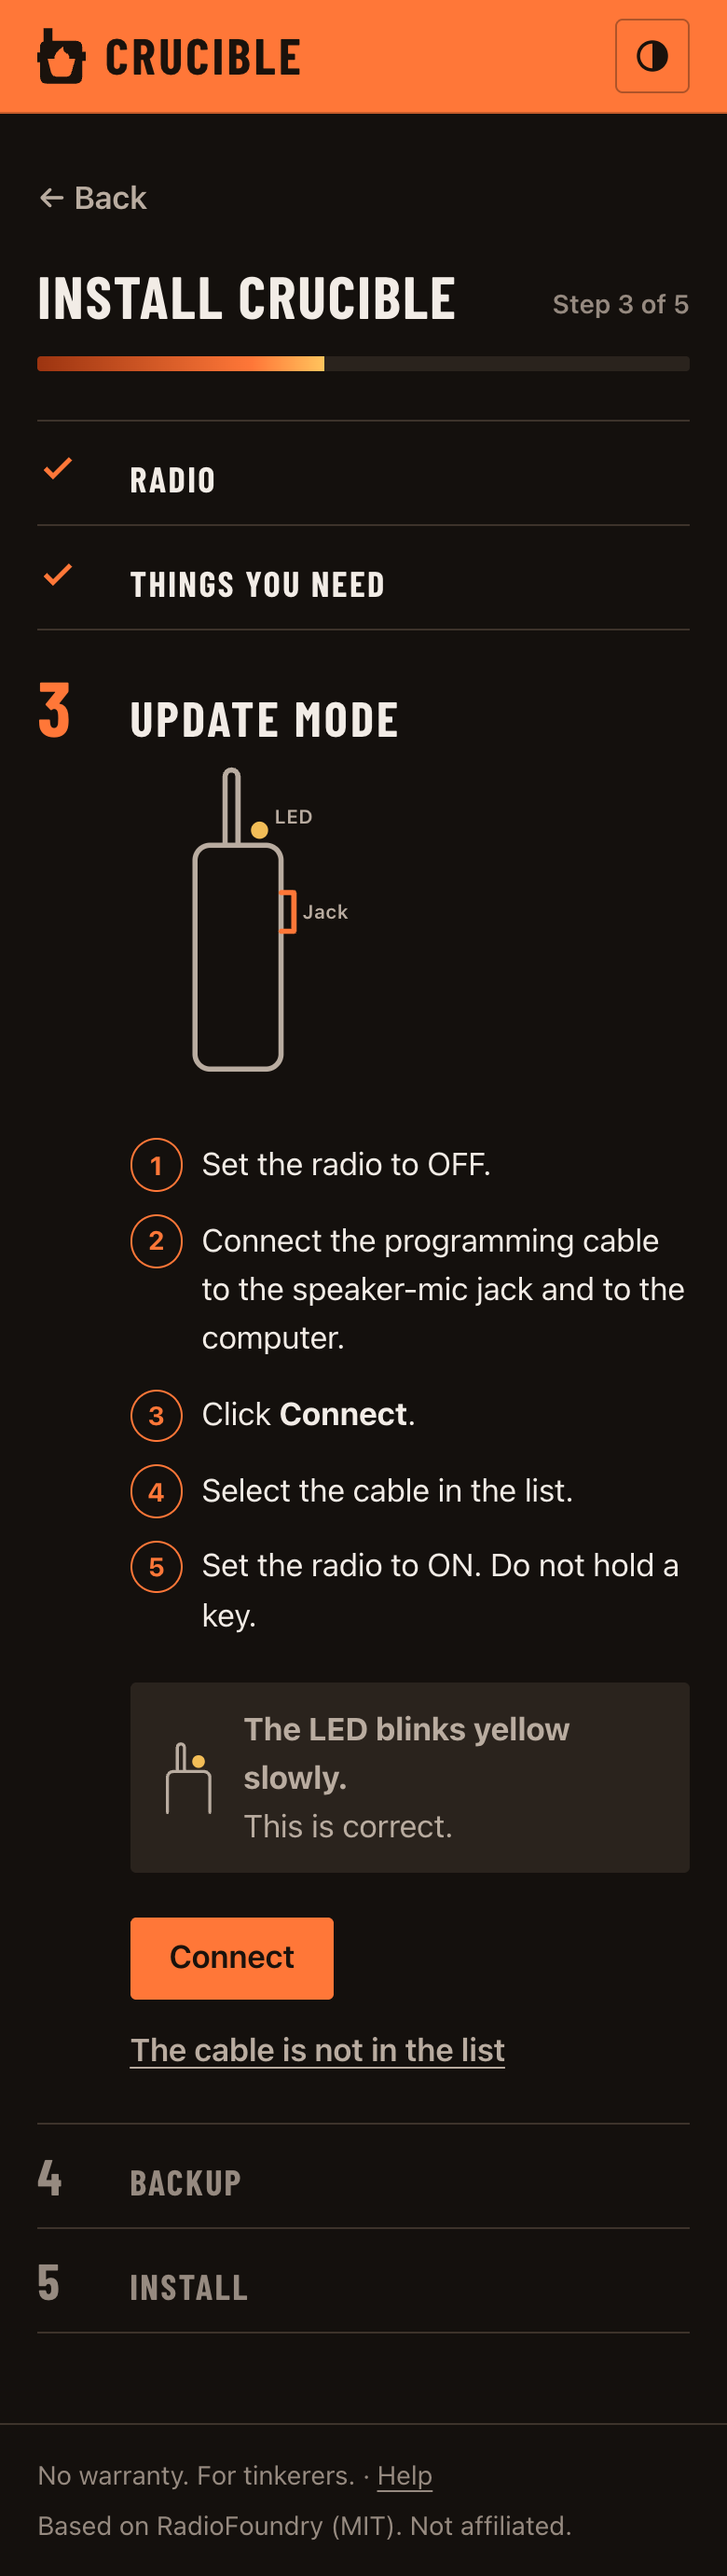
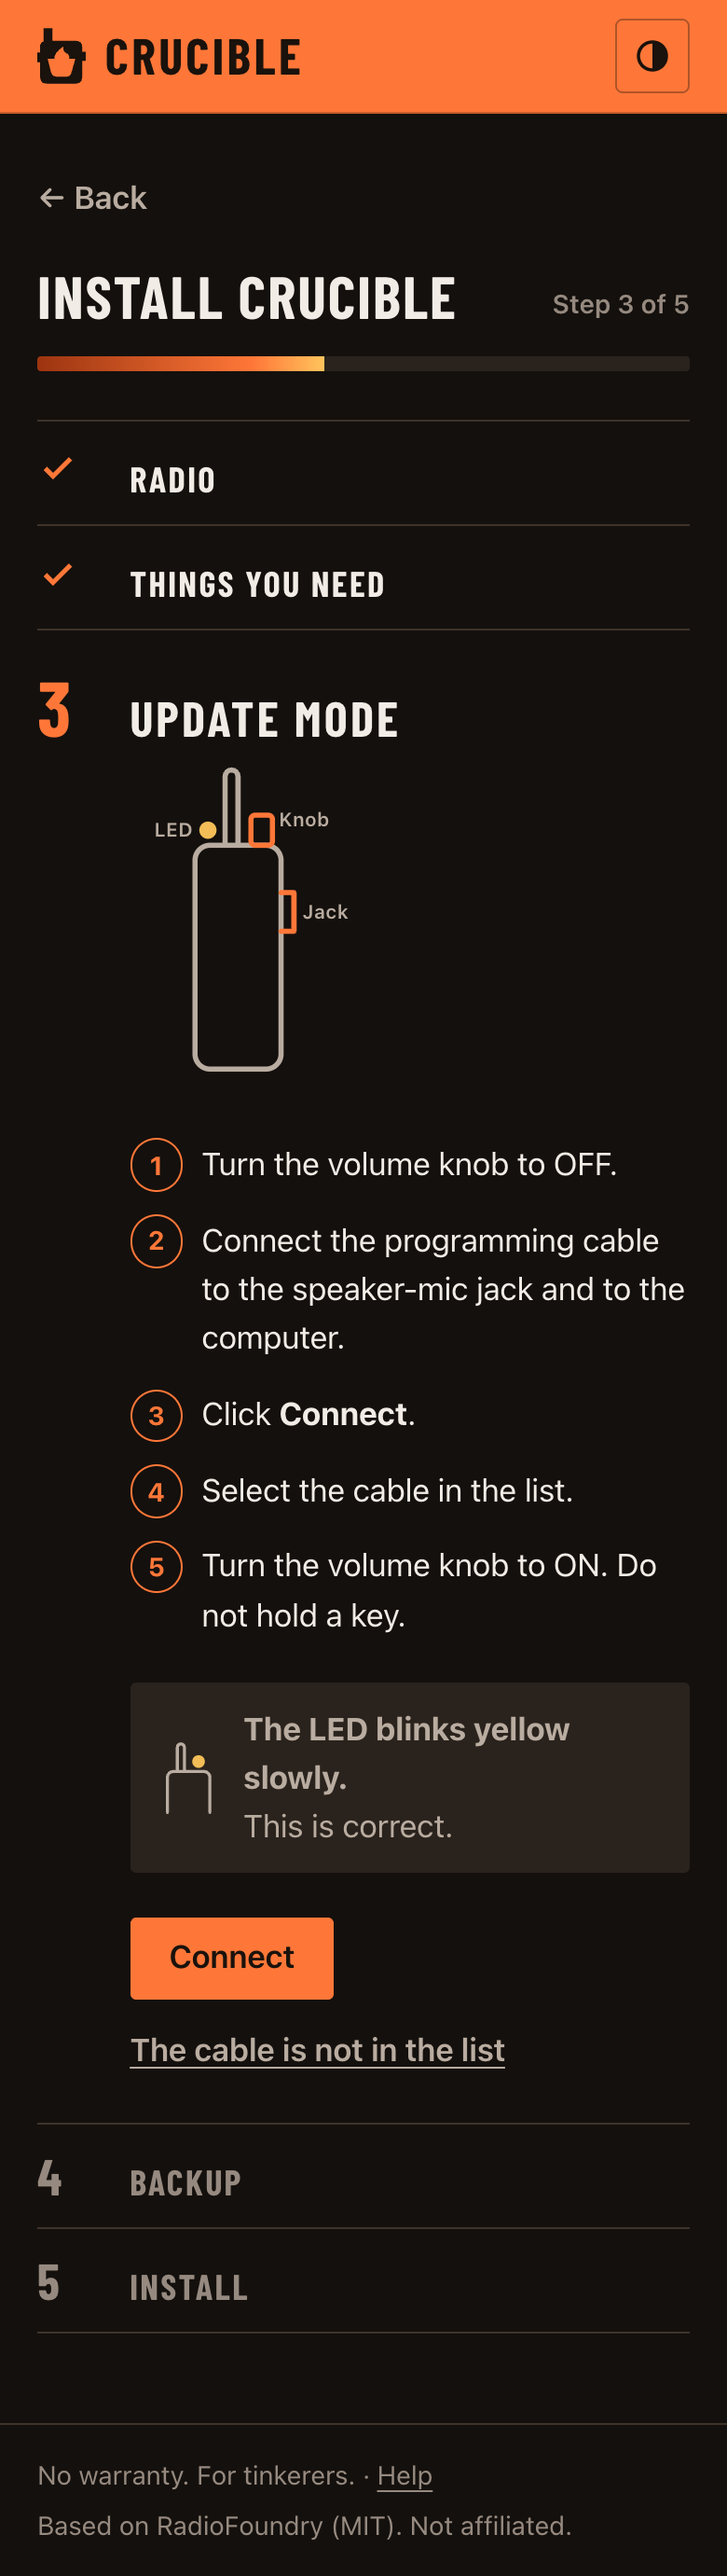
ADR 001: record the maintainer's answers
Line drawings, terms once per computer, the MD-9600 backup as a step the user
can skip, "test release", "tinkerers", the DM-32UV volume knob, and computers
only at launch (the gate drops Android until each radio passes a phone test).

diff --git a/docs/crucible/adr/001/prototype.html b/docs/crucible/adr/001/prototype.html
@@ -326,12 +326,12 @@ details.more summary { padding: 1rem 0 .2rem; cursor: pointer; font-weight: 600;
 <section data-screen="gate" data-where="">
 	<div class="narrow">
 		<h1>Use Chrome or Edge</h1>
-		<p class="lead">This browser cannot connect to a radio. Open this page in one of these browsers.</p>
+		<p class="lead">This browser cannot connect to a radio. Open this page on a computer in one of these browsers.</p>
 		<div class="browsers">
-			<a href="https://www.google.com/chrome/"><b>Chrome</b><span>Computer or Android phone</span></a>
+			<a href="https://www.google.com/chrome/"><b>Chrome</b><span>Windows, Mac or Linux computer</span></a>
 			<a href="https://www.microsoft.com/edge"><b>Edge</b><span>Windows, Mac or Linux computer</span></a>
 		</div>
-		<p class="note">Safari, Firefox and all iPhone browsers cannot connect to a radio. Opera on a computer can also connect.</p>
+		<p class="note">Safari, Firefox and phone browsers cannot install Crucible. Opera on a computer can also connect.</p>
 	</div>
 </section>
 
@@ -650,17 +650,19 @@ details.more summary { padding: 1rem 0 .2rem; cursor: pointer; font-weight: 600;
 							<path d="M44 40V8a3 3 0 0 1 6 0v32"/>
 							<rect x="30" y="40" width="40" height="104" rx="7"/>
 							<path d="M70 62h6v18h-6" stroke="var(--hot)"/>
+							<rect x="56" y="26" width="10" height="14" rx="2" stroke="var(--hot)"/>
 						</g>
-						<circle cx="60" cy="33" r="4" fill="var(--warn)"/>
-						<text x="67" y="30">LED</text>
+						<circle cx="36" cy="33" r="4" fill="var(--warn)"/>
+						<text x="29" y="36" text-anchor="end">LED</text>
+						<text x="69" y="31">Knob</text>
 						<text x="80" y="74">Jack</text>
 					</svg>
 					<ol class="do">
-						<li>Set the radio to OFF.</li>
+						<li>Turn the volume knob to OFF.</li>
 						<li>Connect the programming cable to the speaker-mic jack and to the computer.</li>
 						<li>Click <b>Connect</b>.</li>
 						<li>Select the cable in the list.</li>
-						<li>Set the radio to ON. Do not hold a key.</li>
+						<li>Turn the volume knob to ON. Do not hold a key.</li>
 					</ol>
 				</div>
 				<div class="expect"><svg viewBox="0 0 40 52" aria-hidden="true"><use href="#ledtop"/></svg><span><b>The LED blinks yellow slowly.</b>This is correct.</span></div>

diff --git a/docs/crucible/adr/001-installer-two-paths.md b/docs/crucible/adr/001-installer-two-paths.md
@@ -24,13 +24,13 @@
 |---|---|---|---|
 | DM-1701 | Hold PTT and SK1, turn on. Screen stays dark. | None. Save channels with the CPS. | Baofeng V02.06 or Radioddity V02.01 to V02.03 |
 | MD-UV380 | Hold PTT and SK1, turn on. Screen stays dark. Pick 5 W or 10 W from the label. | None. Save channels with the CPS. | Any supported TYT or Retevis file |
-| DM-32UV | Cable in the speaker-mic jack. Turn on with no keys. LED blinks yellow slowly; at the end it flashes green three times. | The installer reads the radio memory (required). | Not needed: the codec comes from the backup |
+| DM-32UV | Cable in the speaker-mic jack. Turn on with the volume knob, no keys. LED blinks yellow slowly; at the end it flashes green three times. | The installer reads the radio memory (required). | Not needed: the codec comes from the backup |
 | MD-9600 | Disconnect DC. Hold P1 and the orange key, connect DC. Backlight blinks. | Optional "Back up now" before install. | A file from the board family (V1-V3, V4, V4A/V5) |
 
 ## Decision
 
-1. **A gate before anything.** A browser without Web Serial and WebUSB sees one screen: "Use Chrome or Edge" (Chrome
-   on a computer or Android, Edge on Windows, Mac or Linux). Nothing else loads.
+1. **A gate before anything.** A browser without Web Serial and WebUSB sees one screen: "Use Chrome or Edge" on a
+   Windows, Mac or Linux computer. Phones are not offered at launch. Nothing else loads.
 2. **Terms once per computer.** Four numbered items (experimental, no warranty, an install can cause damage, the user
    is responsible) and one checkbox. The checkbox starts clear; Continue stays disabled until it is set. The answer is kept in `localStorage`. The footer repeats "No warranty. For
    tinkerers." on every screen.
@@ -134,17 +134,19 @@ Desktop, dark theme. The light theme and phone captures are in [001/screens/](00
 | ![Update: manufacturer's firmware](001/screens/21-e-wrongfw-dark-desktop.png) 21. Update: manufacturer's firmware | ![Update: in progress](001/screens/22-u-pour-dark-desktop.png) 22. Update: in progress |
 | ![Update: done](001/screens/23-u-done-dark-desktop.png) 23. Update: done | ![Radio not found](001/screens/24-e-notfound-dark-desktop.png) 24. Radio not found |
 
-## Open questions for the maintainer
+## Maintainer answers
 
-1. Is a radio photo better than the line drawings? Photos need permission or our own pictures of each radio.
-2. Should the terms checkbox return after each new Crucible release, or only once per computer?
-3. MD-9600: the prototype shows the backup as a step with "Continue without a backup". Keep it a step, or make it a link like on Update?
-4. Is "test release" the right word for every release until one is stable?
-5. "Tinkerers" (people who experiment) or "tinkers"? The page uses "tinkerers".
-6. DM-32UV: is it set to OFF and ON with a power key or with the volume knob? The page says "Set the radio to OFF"
-   until a radio confirms it.
-7. The gate names Chrome on Android. Confirm that the installer connects to each radio from an Android phone before
-   the page ships; if it does not, the gate says "Chrome on a computer".
+KF8S answered the open questions on 2026-11-26.
+
+| No. | Question | Answer |
+|---|---|---|
+| 1 | Photos or line drawings of the radios | Line drawings. They work in both themes, need no photo rights, and can mark the keys to hold. |
+| 2 | When the terms show | Once per computer. The footer repeats "No warranty. For tinkerers." |
+| 3 | MD-9600 backup | A numbered step that the user can skip behind a caution. |
+| 4 | The name for a release that is not stable | "Test release". |
+| 5 | "Tinkerers" or "tinkers" | "Tinkerers". |
+| 6 | DM-32UV off and on | The volume knob. "Turn the volume knob to OFF/ON." |
+| 7 | Android | Computers only at launch. The gate names Chrome and Edge on a computer. Add Android after each radio passes a test from a phone. |
 
 ## Plan
 
@@ -165,4 +167,4 @@ Desktop, dark theme. The light theme and phone captures are in [001/screens/](00
 | 1 | Finish (Impeccable) | Fix: eyebrow tags, condensed face on labels, seed reference, version picker states, door weight, token drift, dark-screen drawing |
 | 2 | Finish (Impeccable) | Fix: radio facts box as a two-column grid at every width |
 | 3 | Finish (Impeccable) | Fix: e-stopped names the step instead of a number; DM-32UV LED sign gets its own drawing |
-| 4 | Finish (Impeccable) | Ship. Not covered: motion (step close, pour edge), the picker's disabled default state (decision 7 only), the Android check (open question 7) |
+| 4 | Finish (Impeccable) | Ship. Not covered: motion (step close, pour edge), the picker's disabled default state (decision 7 only), the Android check (answer 7: computers only at launch) |
